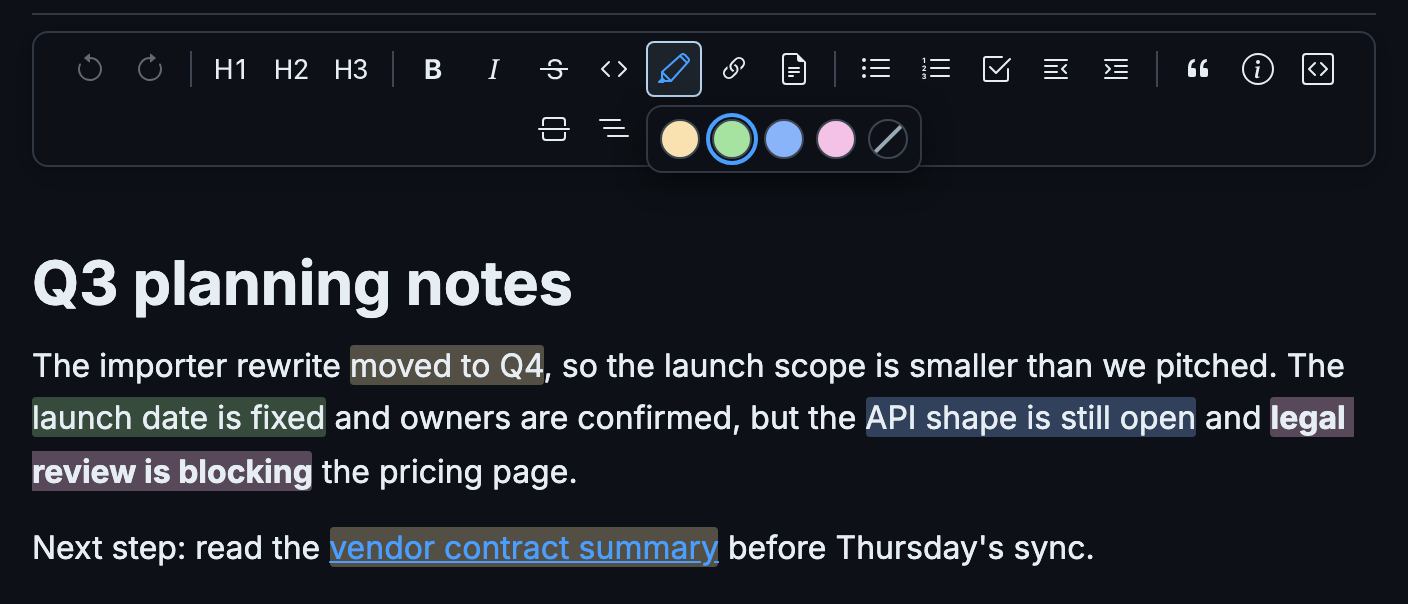
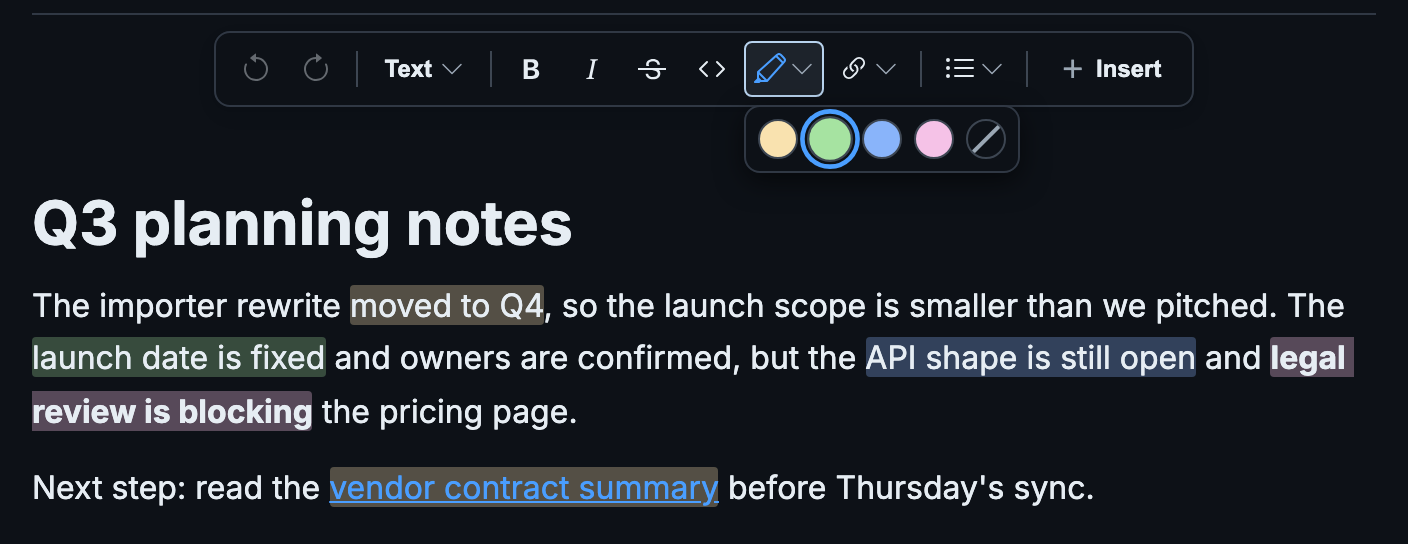
Toolbar: port strikethrough and highlight into the slim strip
Rebased onto the strikethrough/highlight/h4-h6 stack. S sits between
italic and code; Highlight becomes a fifth shared openMenu dropdown
(swatch row + remove), replacing its copied outside-click effect. Both
are desktop-only — the mobile strip has no room and ~~ / == cover them.
Re-shot the strikethrough and highlight screenshots.

Claude-Session: https://claude.ai/code/session_01TjDHzKUrMWT1qwYMb57oZM

diff --git a/frontend/src/lib/Toolbar.svelte b/frontend/src/lib/Toolbar.svelte
@@ -4,7 +4,8 @@
   import { toggleMark, setBlockType, wrapIn, lift, chainCommands } from "prosemirror-commands";
   import { wrapInList, liftListItem, sinkListItem } from "prosemirror-schema-list";
   import { undo, redo, undoDepth, redoDepth } from "prosemirror-history";
-  import { schema } from "./schema";
+  import { schema, HIGHLIGHT_COLORS, type HighlightColor } from "./schema";
+  import { activeHighlightColor, clearHighlight, setHighlight } from "./highlight";
   import { TOOLBAR_ICONS, type ToolbarIconName } from "./icons";
   import { blockTypeLabel } from "./blockTypeLabel";
   import { activeListType } from "./activeListType";
@@ -36,12 +37,13 @@
   // navigation over that menu's `[role=menuitem]` rows. Deliberately generic:
   // the ＋ Insert menu (with the template placeholder section folded in) is the
   // "insert" key.
-  type MenuName = "text" | "link" | "list" | "insert";
+  type MenuName = "text" | "highlight" | "link" | "list" | "insert";
   let openMenu = $state<MenuName | null>(null);
 
   // Wrapper element per menu (trigger + popup), so a click on the trigger reads
   // as "inside" and doesn't trip the outside-click close.
   let textRoot: HTMLDivElement | undefined = $state();
+  let highlightRoot: HTMLDivElement | undefined = $state();
   let linkRoot: HTMLDivElement | undefined = $state();
   let listRoot: HTMLDivElement | undefined = $state();
   let insertRoot: HTMLDivElement | undefined = $state();
@@ -50,6 +52,8 @@
     switch (name) {
       case "text":
         return textRoot;
+      case "highlight":
+        return highlightRoot;
       case "link":
         return linkRoot;
       case "list":
@@ -241,6 +245,12 @@
 
   // Text ▾ menu rows: close the menu, then run the block-type command. Kept
   // generic (takes the action thunk) so every row reads the same.
+  // Highlight ▾ swatch row: a slot color, or null for "Remove highlight".
+  function chooseHighlight(color: HighlightColor | null) {
+    closeMenu();
+    run(color ? setHighlight(color) : clearHighlight);
+  }
+
   function chooseBlock(action: () => void) {
     return () => {
       closeMenu();
@@ -317,9 +327,17 @@
     void tick;
     return markActive(schema.marks.em);
   });
+  const isStrike = $derived.by(() => {
+    void tick;
+    return markActive(schema.marks.strike);
+  });
   const isCode = $derived.by(() => {
     void tick;
     return markActive(schema.marks.code);
+  });
+  const highlightColor = $derived.by(() => {
+    void tick;
+    return view ? activeHighlightColor(view.state) : null;
   });
   const isH1 = $derived.by(() => {
     void tick;
@@ -606,7 +624,63 @@
   <span class="tb-sep" aria-hidden="true"></span>
   {@render btn("bold", "Bold (⌘B)", toggle(schema.marks.strong), isBold)}
   {@render btn("italic", "Italic (⌘I)", toggle(schema.marks.em), isItalic)}
+  <!-- S and Highlight ▾ are desktop-only: the mobile strip has no room, and
+       `~~` / `==` input rules cover them on a soft keyboard (design.md §Mobile). -->
+  {#if !isMobile}
+    <!-- @feat strikethrough: toolbar button toggles strike, pressed while the mark is active -->
+    {@render btn("strikethrough", "Strikethrough (⌘⇧X)", toggle(schema.marks.strike), isStrike)}
+  {/if}
   {@render btn("code", "Inline code (⌘`)", toggle(schema.marks.code), isCode)}
+  {#if !isMobile}
+    <!-- @feat highlight: toolbar button + swatch popover (4 color slots + remove) -->
+    <div class="tb-menu-wrap" bind:this={highlightRoot}>
+      <button
+        type="button"
+        class="tb-btn tb-trigger tb-trigger-icon"
+        class:active={openMenu === "highlight" || highlightColor !== null}
+        aria-pressed={highlightColor !== null}
+        aria-haspopup="menu"
+        aria-expanded={openMenu === "highlight"}
+        aria-label="Highlight (⌘⇧H)"
+        title="Highlight (⌘⇧H)"
+        onclick={() => toggleMenu("highlight")}
+      >
+        <svg xmlns="http://www.w3.org/2000/svg" width="16" height="16" viewBox="0 0 16 16" fill="currentColor" aria-hidden="true">
+          <!-- eslint-disable-next-line svelte/no-at-html-tags — static path data from icons.ts, never user input -->
+          {@html TOOLBAR_ICONS["highlighter"]}
+        </svg>
+        <svg class="tb-trigger-chevron" xmlns="http://www.w3.org/2000/svg" width="12" height="12" viewBox="0 0 16 16" fill="currentColor" aria-hidden="true">
+          <!-- eslint-disable-next-line svelte/no-at-html-tags — static path data from icons.ts, never user input -->
+          {@html TOOLBAR_ICONS["chevronDown"]}
+        </svg>
+      </button>
+      {#if openMenu === "highlight"}
+        <div class="tb-hl-menu" role="menu" aria-label="Highlight color">
+          {#each HIGHLIGHT_COLORS as color, i (color)}
+            <button
+              type="button"
+              role="menuitem"
+              class="tb-hl-swatch"
+              class:active={highlightColor === color}
+              class:current={highlightColor === color}
+              data-color={color}
+              aria-label={`Highlight color ${i + 1}`}
+              title={`Highlight color ${i + 1}`}
+              onclick={() => chooseHighlight(color)}
+            ></button>
+          {/each}
+          <button
+            type="button"
+            role="menuitem"
+            class="tb-hl-swatch tb-hl-none"
+            aria-label="Remove highlight"
+            title="Remove highlight"
+            onclick={() => chooseHighlight(null)}
+          ></button>
+        </div>
+      {/if}
+    </div>
+  {/if}
   <!-- Link ▾ — merges the URL-link and wiki-link buttons; trigger active when
        the selection carries a link mark (isLink). -->
   <div class="tb-menu-wrap" bind:this={linkRoot}>
@@ -909,6 +983,58 @@
   .tb-trigger-icon {
     gap: 2px;
     padding: 0 4px;
+  }
+  .tb-hl-menu {
+    position: absolute;
+    top: calc(100% + 4px);
+    left: 0;
+    z-index: 20;
+    background: var(--pp-bg);
+    border: 1px solid var(--pp-border);
+    border-radius: 8px;
+    box-shadow: 0 4px 14px var(--pp-shadow);
+    padding: 6px;
+    display: flex;
+    gap: 6px;
+    align-items: center;
+  }
+  .tb-hl-swatch {
+    width: 20px;
+    height: 20px;
+    padding: 0;
+    border-radius: 50%;
+    border: 1px solid var(--pp-border-strong);
+    cursor: pointer;
+    background: var(--pp-bg);
+  }
+  .tb-hl-swatch[data-color="hl1"] { background: var(--pp-hl-1-swatch); }
+  .tb-hl-swatch[data-color="hl2"] { background: var(--pp-hl-2-swatch); }
+  .tb-hl-swatch[data-color="hl3"] { background: var(--pp-hl-3-swatch); }
+  .tb-hl-swatch[data-color="hl4"] { background: var(--pp-hl-4-swatch); }
+  /* `.sel` is the shared $effect's keyboard roving position (it starts on the
+     `.active` swatch); `.current` outlines the selection's color. */
+  .tb-hl-swatch:hover,
+  .tb-hl-swatch:global(.sel) {
+    transform: scale(1.15);
+  }
+  .tb-hl-swatch.current {
+    outline: 2px solid var(--pp-accent);
+    outline-offset: 1px;
+  }
+  /* "Remove highlight": an empty dot with a diagonal slash. */
+  .tb-hl-none {
+    position: relative;
+    overflow: hidden;
+  }
+  .tb-hl-none::after {
+    content: "";
+    position: absolute;
+    left: calc(50% - 0.75px);
+    top: -2px;
+    bottom: -2px;
+    width: 1.5px;
+    background: var(--pp-fg-muted);
+    transform: rotate(45deg);
   }
   .tb-menu {
     position: absolute;
